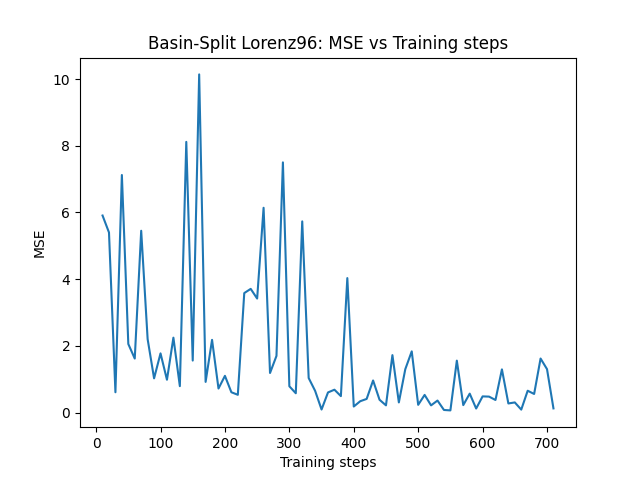
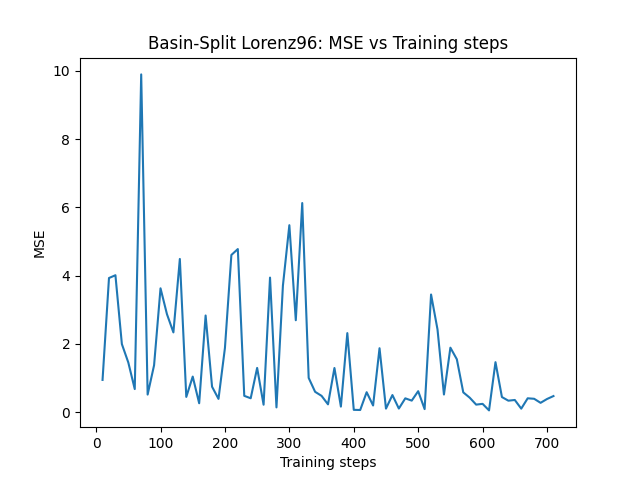
Run experiment with additional missing dimensions

diff --git a/examples/lorenz96_hdim/lorenz96_task.py b/examples/lorenz96_hdim/lorenz96_task.py
@@ -21,7 +21,7 @@ parser = argparse.ArgumentParser(description='training parameters')
 parser.add_argument('--n_hid', type=int, default=64, help='hidden size of recurrent net')
 parser.add_argument('--seq_len', type=int, default=250, help='length of each sequence')
 parser.add_argument('--dim', type=int, default=4, help='which dimension to predict from [0, 1, 2, 3, 4]')
-parser.add_argument('--hdim', type=int, default=3, help='which dimension to predict from [0, 1, 2, 3, 4]')
+parser.add_argument('--hdim', type=int, default=3, help='which additional dimension to remove from [0, 1, 2, 3]')
 parser.add_argument('--log_interval', type=int, default=100, help='log interval')
 parser.add_argument('--lr', type=float, default=2e-2, help='learning rate')
 parser.add_argument('--dt', type=float, default=1e-2, help='step size <dt> of the coRNN')
@@ -74,7 +74,7 @@ def predict(model, path_to_test_csv, split, train_objective, test_objective):
         plt.xlabel('Step')
         plt.ylabel('x4')
         plt.legend()
-        plt.savefig(f'plots/{test_loss_func}/{split.title()}_{train_loss_func}_{test_loss_func}_traj.png')
+        plt.savefig(f'plots/{test_loss_func}/1{split.title()}_{train_loss_func}_{test_loss_func}_traj.png')
     return
 
 def train(model, optimizer, split, train_objective, test_objective):
@@ -169,10 +169,10 @@ if __name__ == '__main__':
             train_loss_func = get_loss_from_obj(train_objective)
             model = initialize_model()
             optimizer = optim.Adam(model.parameters(), lr=args.lr)
-            epochs = 2
+            epochs = 1
             for i in range(epochs):
                 steps, test_err = train(model, optimizer, split.lower(), train_objective, test_objective)
-            create_loss_plot(steps, test_err, split, train_objective, test_objective)
+            #create_loss_plot(steps, test_err, split, train_objective, test_objective)
             test_errs[(split, train_loss_func)] = test_err
 
 
@@ -194,4 +194,4 @@ if __name__ == '__main__':
         plt.xlim(0, 1)
         plt.grid(True)
         plt.legend()
-        plt.savefig(f'plots/NSE/NSE_CDFs.png')
+        plt.savefig(f'plots/NSE/1NSE_CDFs.png')

diff --git a/examples/chaotic_lorenz96/lorenz96_task.py b/examples/chaotic_lorenz96/lorenz96_task.py
@@ -56,13 +56,13 @@ def predict(path_to_test_csv, split):
     
     pattern = r'/(\d+\.\d+)_\d+\.csv'
     match = re.search(pattern, path_to_test_csv)
-    F = 8.05 #float(match.group(1))
+    F = 1.55#8.05 #float(match.group(1))
     traj_len = 2000
 
     with torch.no_grad():
         if split == 'time':
             traj_len = 1000
-        data, label = utils.get_data('basin_split_test/8.05_5.csv', traj_len, args.dim, split, "test")
+        data, label = utils.get_data('basin_split_test/1.55_5.csv', traj_len, args.dim, split, "test")
         out = model(data.to(device))
         out_np = out.numpy()
         label_np = torch.squeeze(label).numpy()
@@ -74,7 +74,7 @@ def predict(path_to_test_csv, split):
         plt.xlabel('Step')
         plt.ylabel('x4')
         plt.legend()
-        plt.savefig(f'plots/{split.title()}_Predicted_vs_Observed_Trajectory.png')
+        plt.savefig(f'plots/{split.title()}_Predicted_vs_Observed_Trajectory_{F}.png')
     return
 
 
@@ -99,6 +99,7 @@ def train(split):
     else:
         raise ValueError(f"{split} is an invalid input. Instead use 'basin' or 'time'")
 
+    print(len(train_files))
     test_err = []
     steps = []
     for i in range(len(train_files)):
@@ -113,7 +114,8 @@ def train(split):
             test_csv_path = os.path.join(test_dir,test_files[i])
            
             # predict
-            if i == len(train_files)-1:
+            if i == len(train_files)-10:
+                print('predict')
                 predict(test_csv_path, split)
             error = test(test_csv_path, split)
             steps.append(i)
